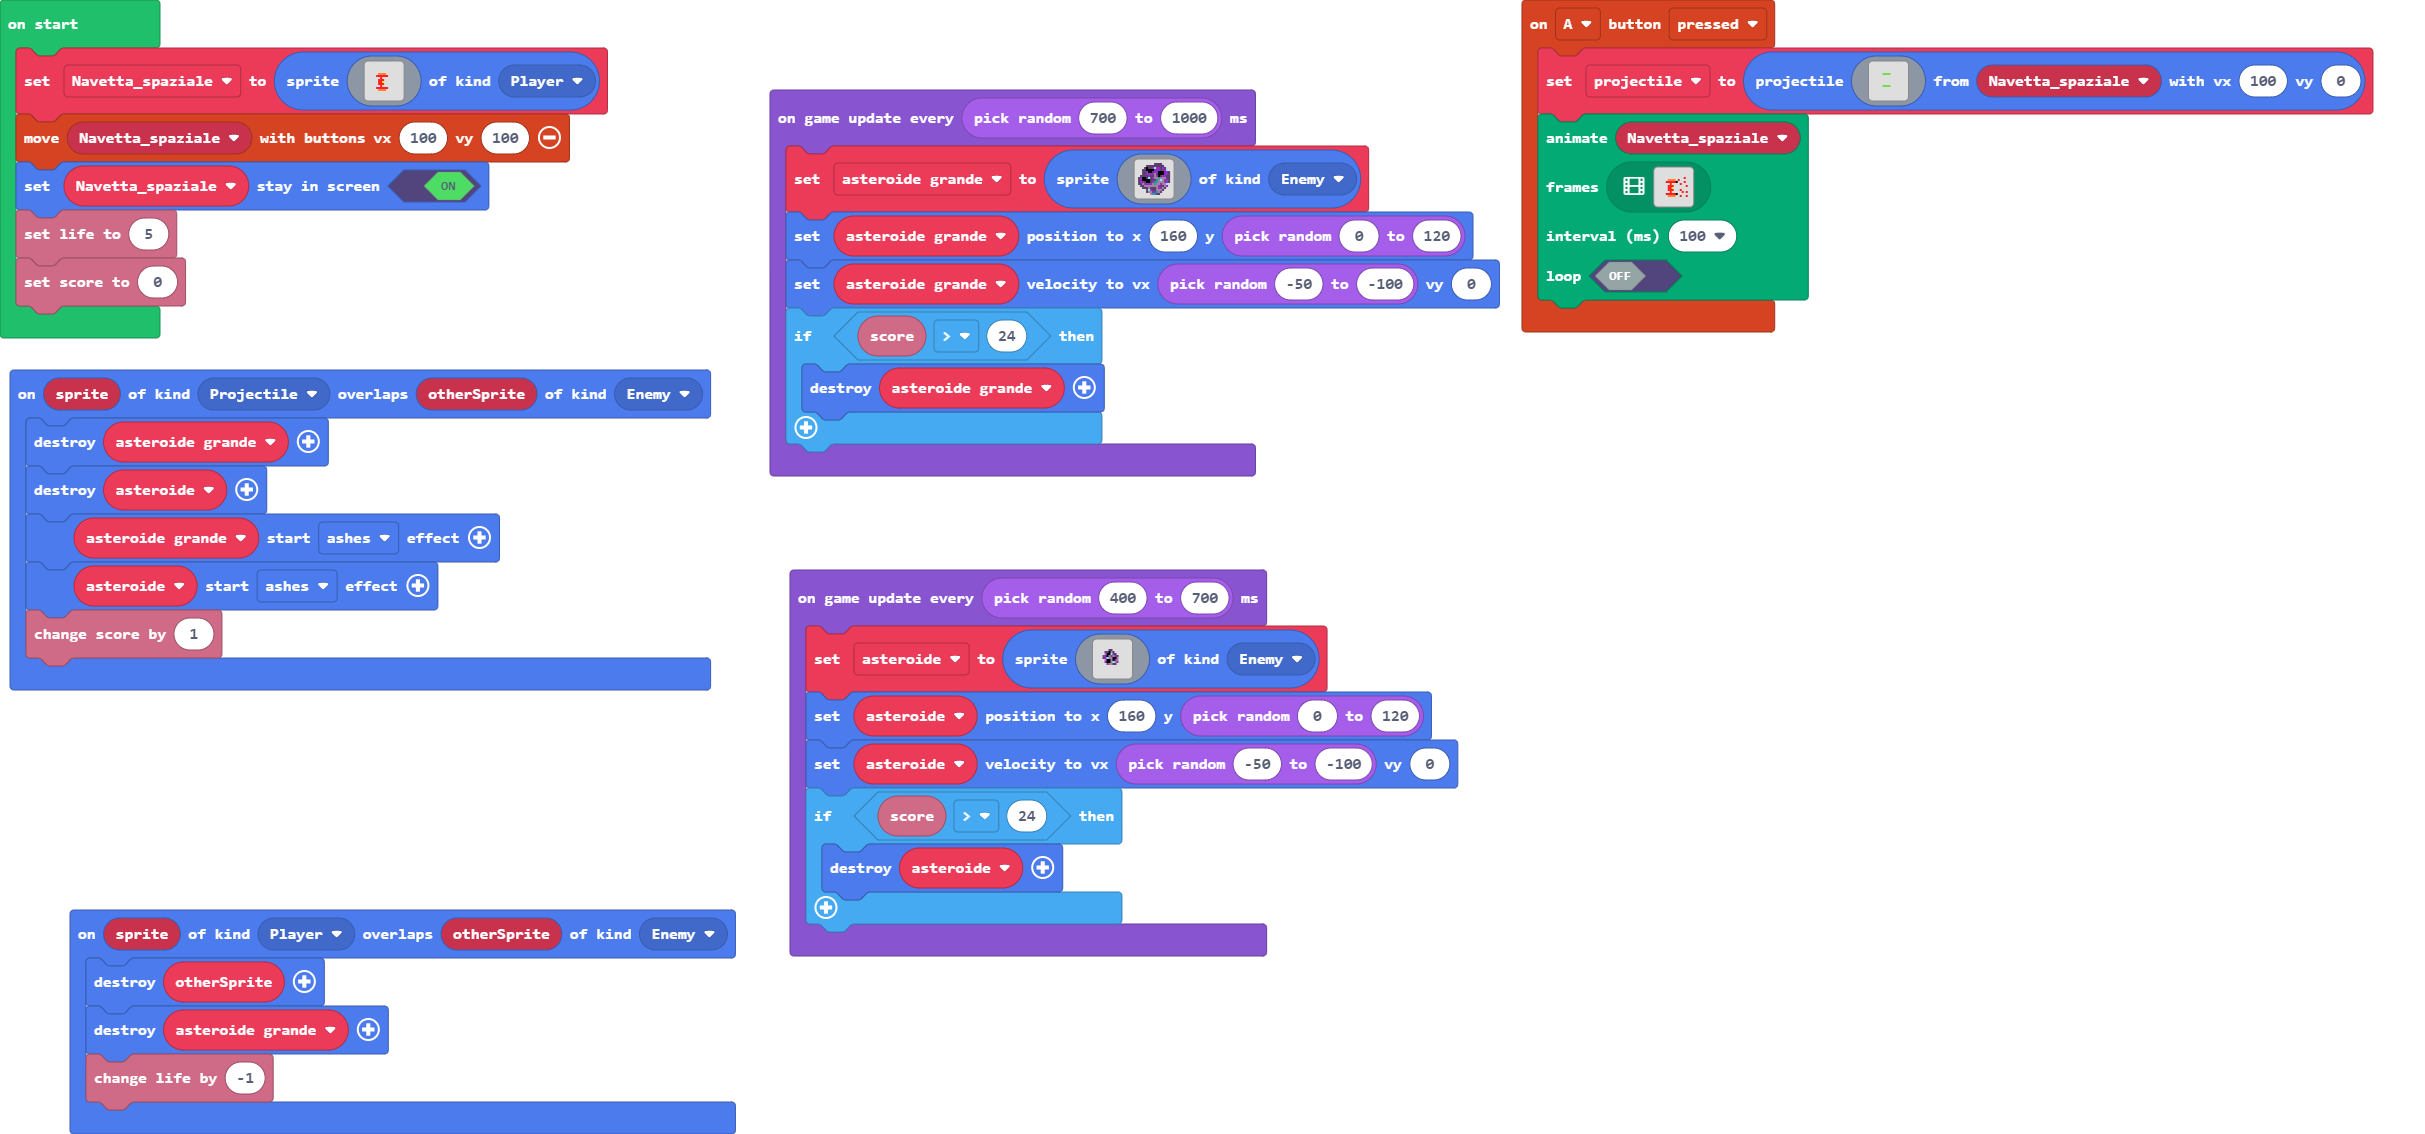
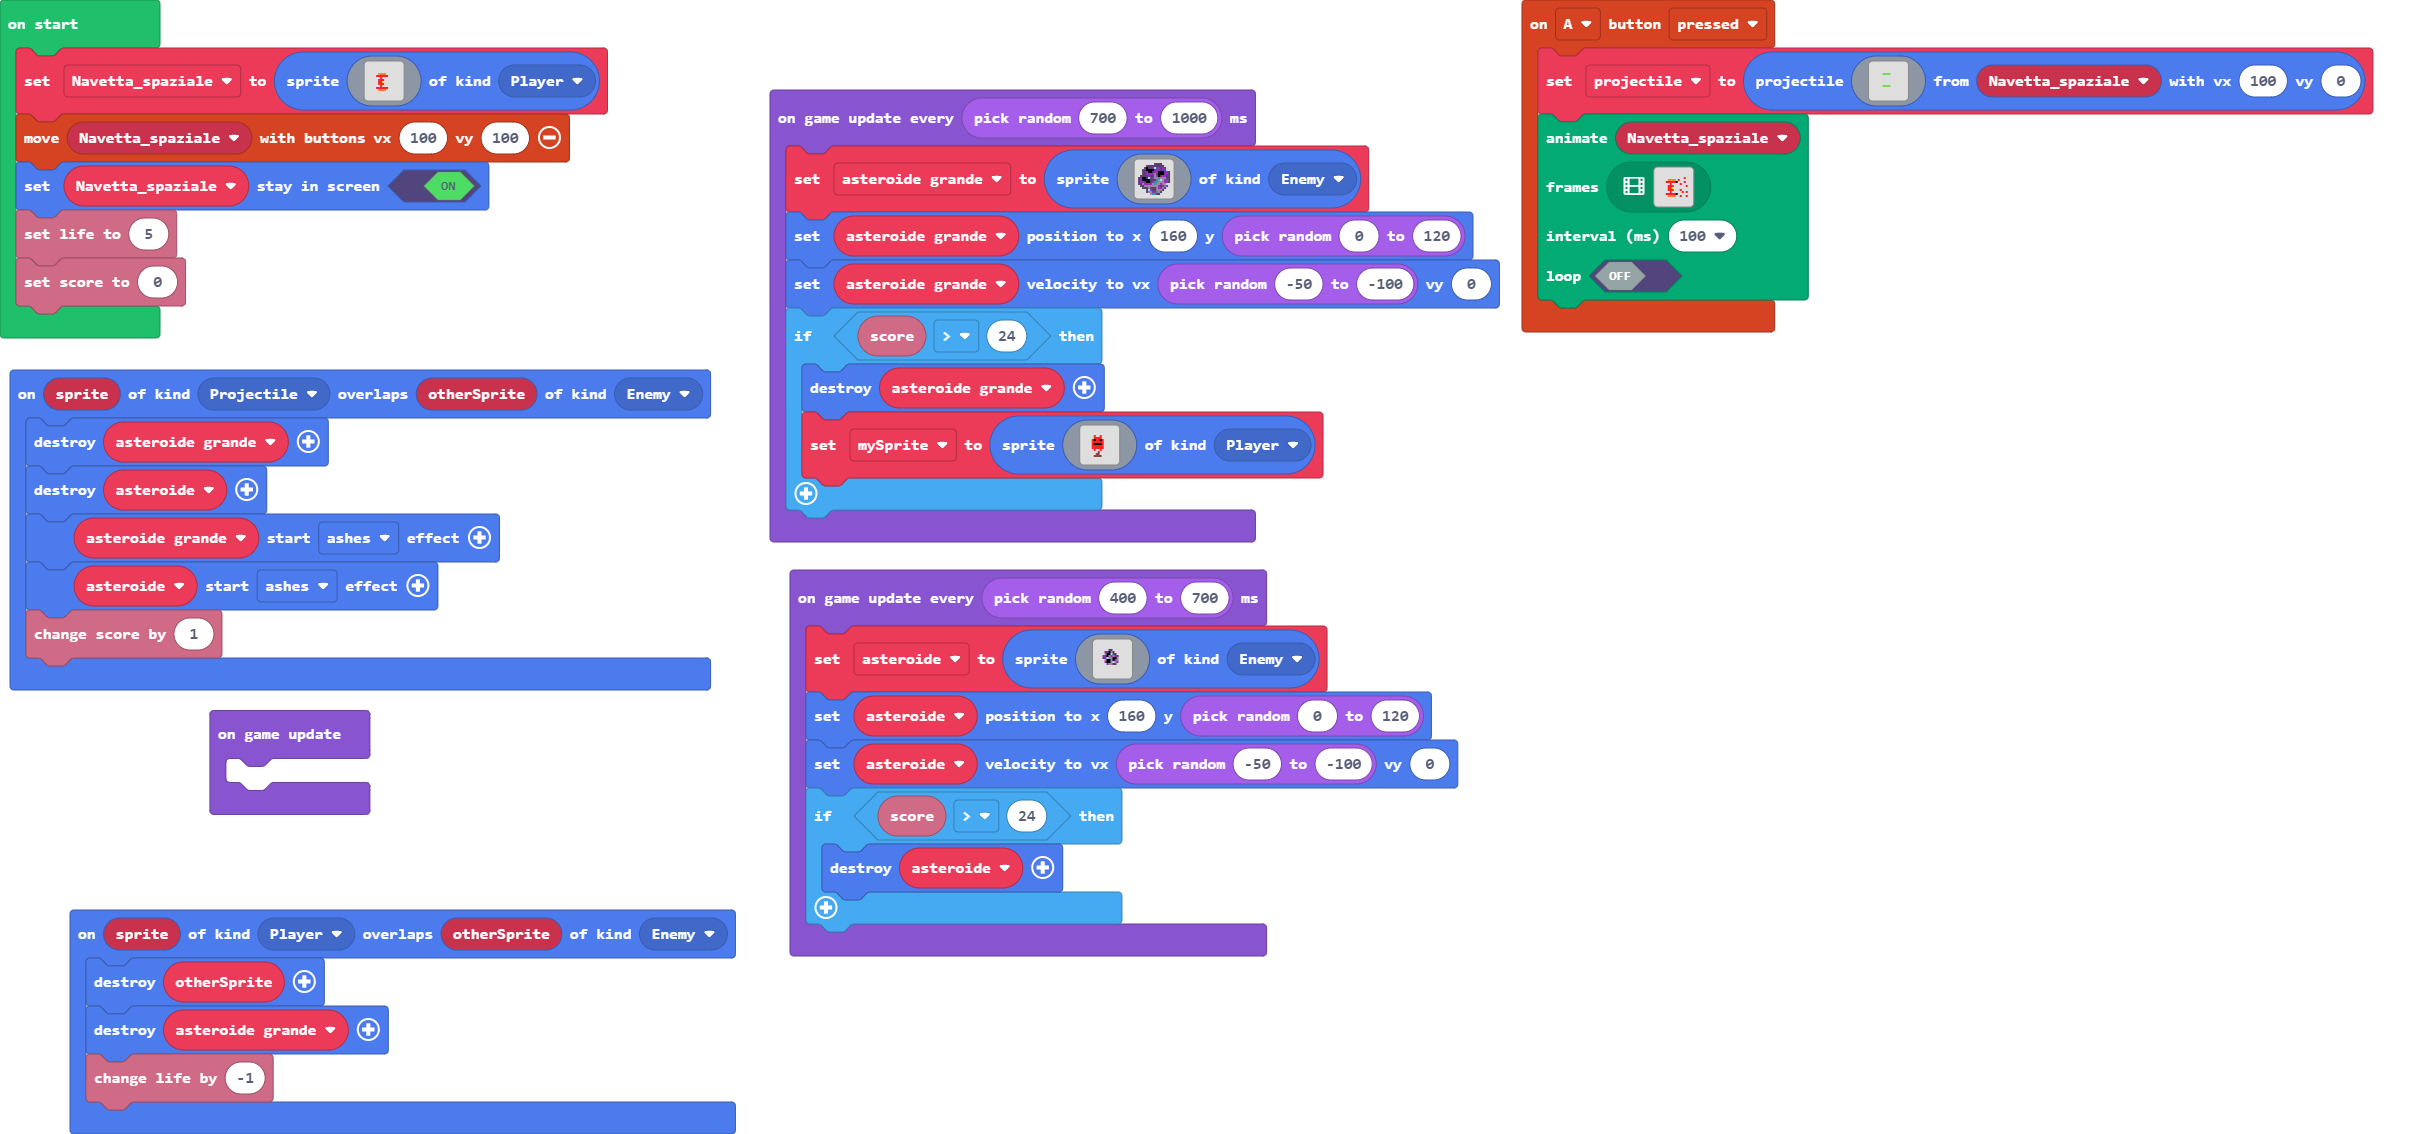
Update main.blocks, main.ts

Changed region(s): [[0.3093, 0.3395, 0.5567, 0.4938], [0.0619, 0.6173, 0.1546, 0.7407]]

diff --git a/main.ts b/main.ts
@@ -108,6 +108,7 @@ sprites.onOverlap(SpriteKind.Player, SpriteKind.Enemy, function (sprite, otherSp
     asteroide_grande.destroy()
     info.changeLifeBy(-1)
 })
+let mySprite: Sprite = null
 let asteroide: Sprite = null
 let asteroide_grande: Sprite = null
 let projectile: Sprite = null
@@ -134,6 +135,9 @@ controller.moveSprite(Navetta_spaziale, 100, 100)
 Navetta_spaziale.setStayInScreen(true)
 info.setLife(5)
 info.setScore(0)
+game.onUpdate(function () {
+	
+})
 game.onUpdateInterval(randint(400, 700), function () {
     asteroide = sprites.create(img`
         . . . . . . . . . . . . . . . . 
@@ -182,5 +186,23 @@ game.onUpdateInterval(randint(700, 1000), function () {
     asteroide_grande.setVelocity(randint(-50, -100), 0)
     if (info.score() > 24) {
         asteroide_grande.destroy()
+        mySprite = sprites.create(img`
+            . . . . . . . . . . . . . . . . 
+            . . . . . . . . . . . . . . . . 
+            . . . . . . . . . . . . . . . . 
+            . . . . . 2 . . 2 . . . . . . . 
+            . . . . . 2 2 2 2 . . . . . . . 
+            . . . . 2 f 2 2 f 2 . . . . . . 
+            . . . . 2 2 2 2 2 2 . . . . . . 
+            . . . . 2 f f f f 2 . . . . . . 
+            . . . . 2 2 2 2 2 2 . . . . . . 
+            . . . . 2 2 2 2 2 2 . . . . . . 
+            . . . . . 2 . . 2 . . . . . . . 
+            . . . . . . . e . . . . . . . . 
+            . . . . . . e e . . . . . . . . 
+            . . . . . e e e e . . . . . . . 
+            . . . . . . . . . . . . . . . . 
+            . . . . . . . . . . . . . . . . 
+            `, SpriteKind.Player)
     }
 })
